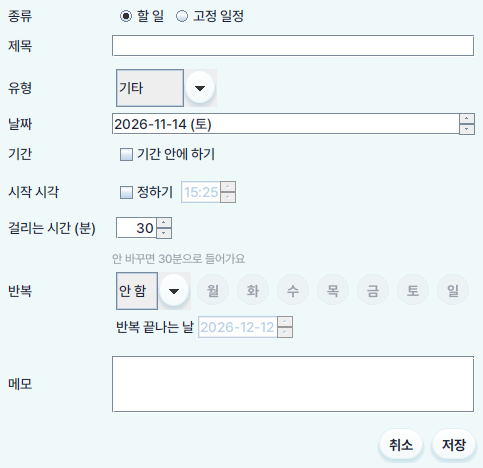
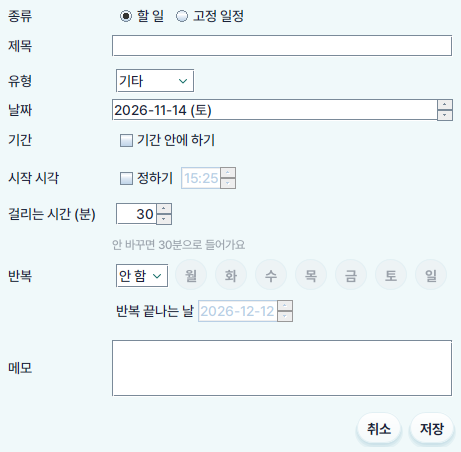
fix(schedule): 일정 입력 창의 유형과 반복 칸을 다른 칸과 같은 모양으로 (#204)
고르는 칸(ComboUI)을 JComboBox의 기본 모양으로 건다. 옆 제목, 날짜 칸과 같은
흰 바탕과 테두리, 칸 안 오른쪽 끝의 바탕 없는 아래 꺾쇠(DOWN), 초점은 안쪽 민트 선,
펼친 목록의 고른 줄은 MINT_PALE이다(D-97). ProtoCheck에 D-97 고르는 칸 검사를 더했다.

diff --git a/prototype/src/planningpet/common/view/ComboUI.java b/prototype/src/planningpet/common/view/ComboUI.java
@@ -1,0 +1,66 @@
+package planningpet.common.view;
+
+import java.awt.BasicStroke;
+import java.awt.Graphics;
+import java.awt.Graphics2D;
+import java.awt.Insets;
+import java.awt.Rectangle;
+import javax.swing.BorderFactory;
+import javax.swing.JButton;
+import javax.swing.JComponent;
+import javax.swing.UIManager;
+import javax.swing.plaf.ComponentUI;
+import javax.swing.plaf.basic.BasicButtonUI;
+import javax.swing.plaf.basic.BasicComboBoxUI;
+
+/**
+ * 고르는 칸(디자인 시스템 5절, D-97). 옆의 입력 칸과 같은 흰 바탕과 얇은 테두리이고, 칸 안 오른쪽 끝에
+ * 바탕 없는 작은 아래 꺾쇠를 둔다. 칸 어디를 눌러도 목록이 열린다(BasicComboBoxUI 그대로).
+ * Theme.install이 JComboBox의 기본 모양으로 건다.
+ */
+public final class ComboUI extends BasicComboBoxUI {
+    public static ComponentUI createUI(JComponent c) {
+        return new ComboUI();
+    }
+
+    @Override
+    public void installUI(JComponent c) {
+        super.installUI(c);
+        comboBox.setBorder(UIManager.getBorder("TextField.border"));
+        comboBox.setBackground(Theme.CARD_TOP);
+    }
+
+    @Override
+    protected JButton createArrowButton() {
+        JButton b = new JButton(Icons.icon(Icons.Kind.DOWN, 12, Theme.ICON));
+        b.setDisabledIcon(Icons.icon(Icons.Kind.DOWN, 12, Theme.INK_DIM));
+        b.setUI(new BasicButtonUI());
+        b.setBorder(BorderFactory.createEmptyBorder());
+        b.setContentAreaFilled(false);
+        b.setOpaque(false);
+        b.setFocusable(false);
+        b.setName("ComboBox.arrowButton");
+        return b;
+    }
+
+    @Override
+    public void paint(Graphics g, JComponent c) {
+        g.setColor(Theme.CARD_TOP);
+        Insets in = c.getInsets();
+        g.fillRect(in.left, in.top, c.getWidth() - in.left - in.right, c.getHeight() - in.top - in.bottom);
+        super.paint(g, c);
+        if (comboBox.hasFocus()) {
+            Graphics2D g2 = (Graphics2D) g.create();
+            g2.setColor(Theme.MINT);
+            g2.setStroke(new BasicStroke(1f));
+            g2.drawRect(in.left, in.top, c.getWidth() - in.left - in.right - 1, c.getHeight() - in.top - in.bottom - 1);
+            g2.dispose();
+        }
+    }
+
+    /** 고른 값에 선택 바탕을 칠하지 않는다. 초점은 paint의 민트 선으로 보인다. */
+    @Override
+    public void paintCurrentValue(Graphics g, Rectangle bounds, boolean hasFocus) {
+        super.paintCurrentValue(g, bounds, false);
+    }
+}

diff --git a/prototype/check/planningpet/check/ProtoCheck.java b/prototype/check/planningpet/check/ProtoCheck.java
@@ -179,6 +179,7 @@ public final class ProtoCheck {
         PeriodCheck.run();
         DayCheck.run();
         HomeCheck.run();
+        looks();
         System.out.println(failed == 0 ? "모두 통과" : failed + "개 실패");
         System.exit(failed == 0 ? 0 : 1);
     }
@@ -270,6 +271,19 @@ public final class ProtoCheck {
     }
 
     /** 검사 문장을 칸 순서대로 " / "로 잇는다. 통과면 null. */
+    /** D-97: 고르는 칸은 옆 제목 칸과 같은 테두리, 흰 바탕, 바탕 없는 꺾쇠다. 디자인 시스템을 걸어야 해서 맨 끝에 돈다. */
+    private static void looks() {
+        planningpet.common.view.Theme.install();
+        TaskForm f = new TaskForm(null, java.time.LocalDate.of(2026, 11, 16), java.time.LocalDateTime.of(2026, 11, 16, 9, 0));
+        for (javax.swing.JComboBox<String> c : java.util.List.of(f.category, f.repeat)) {
+            javax.swing.AbstractButton arrow = (javax.swing.AbstractButton) java.util.Arrays.stream(c.getComponents())
+                    .filter(k -> k instanceof javax.swing.AbstractButton).findFirst().orElseThrow();
+            eq("D-97 고르는 칸", "ComboUI true ffffffff false",
+                    c.getUI().getClass().getSimpleName() + " " + (c.getBorder() == f.title.getBorder()) + " "
+                    + Integer.toHexString(c.getBackground().getRGB()) + " " + arrow.isContentAreaFilled());
+        }
+    }
+
     private static String msgs(TaskForm f) {
         var p = TaskCheck.check(f.draft(), f.editing());
         return p.isEmpty() ? null : String.join(" / ", p.stream().map(x -> x[1]).toList());

diff --git a/prototype/src/planningpet/common/view/Theme.java b/prototype/src/planningpet/common/view/Theme.java
@@ -134,6 +134,13 @@ public final class Theme {
         UIManager.put("ToggleButton.font", new FontUIResource(bold(14)));
         UIManager.put("ButtonUI", RoundButtonUI.class.getName());
         UIManager.put("ToggleButtonUI", RoundButtonUI.class.getName());
+        // 고르는 칸(D-97): 옆 입력 칸과 같은 흰 바탕, 펼친 목록의 고른 줄은 MINT_PALE.
+        UIManager.put("ComboBoxUI", ComboUI.class.getName());
+        UIManager.put("ComboBox.background", new ColorUIResource(CARD_TOP));
+        UIManager.put("ComboBox.disabledBackground", new ColorUIResource(CARD_TOP));
+        UIManager.put("ComboBox.disabledForeground", new ColorUIResource(INK_DIM));
+        UIManager.put("ComboBox.selectionBackground", new ColorUIResource(MINT_PALE));
+        UIManager.put("ComboBox.selectionForeground", new ColorUIResource(INK));
         for (String k : List.of("Panel", "CheckBox", "RadioButton", "OptionPane")) {
             UIManager.put(k + ".background", new ColorUIResource(BG));
         }

diff --git a/prototype/src/planningpet/common/view/Icons.java b/prototype/src/planningpet/common/view/Icons.java
@@ -18,7 +18,7 @@ import javax.swing.Icon;
  */
 public final class Icons {
     public enum Kind { HOME, ROOM, CALENDAR, CHART, GEAR, PAW, COIN, CART, SOFA, INFO, CHECK, HEART, SPARK, FLAME, BOX,
-        GAMEPAD, SEARCH, LEFT, RIGHT, PLUS, PENCIL, LOCK, SHIRT, HAT, BOW, COLLAR, BALL, GRID, DOTS, PLANT, CLOSE, EYE,
+        GAMEPAD, SEARCH, LEFT, RIGHT, DOWN, PLUS, PENCIL, LOCK, SHIRT, HAT, BOW, COLLAR, BALL, GRID, DOTS, PLANT, CLOSE, EYE,
         TRASH, CLOCK, CHECKLIST }
 
     private Icons() {
@@ -108,6 +108,7 @@ public final class Icons {
             }
             case LEFT -> g.draw(path(15, 5, 8, 12, 15, 19));
             case RIGHT -> g.draw(path(9, 5, 16, 12, 9, 19));
+            case DOWN -> g.draw(path(5, 9, 12, 16, 19, 9));
             case PLUS -> {
                 g.draw(path(12, 5, 12, 19));
                 g.draw(path(5, 12, 19, 12));
